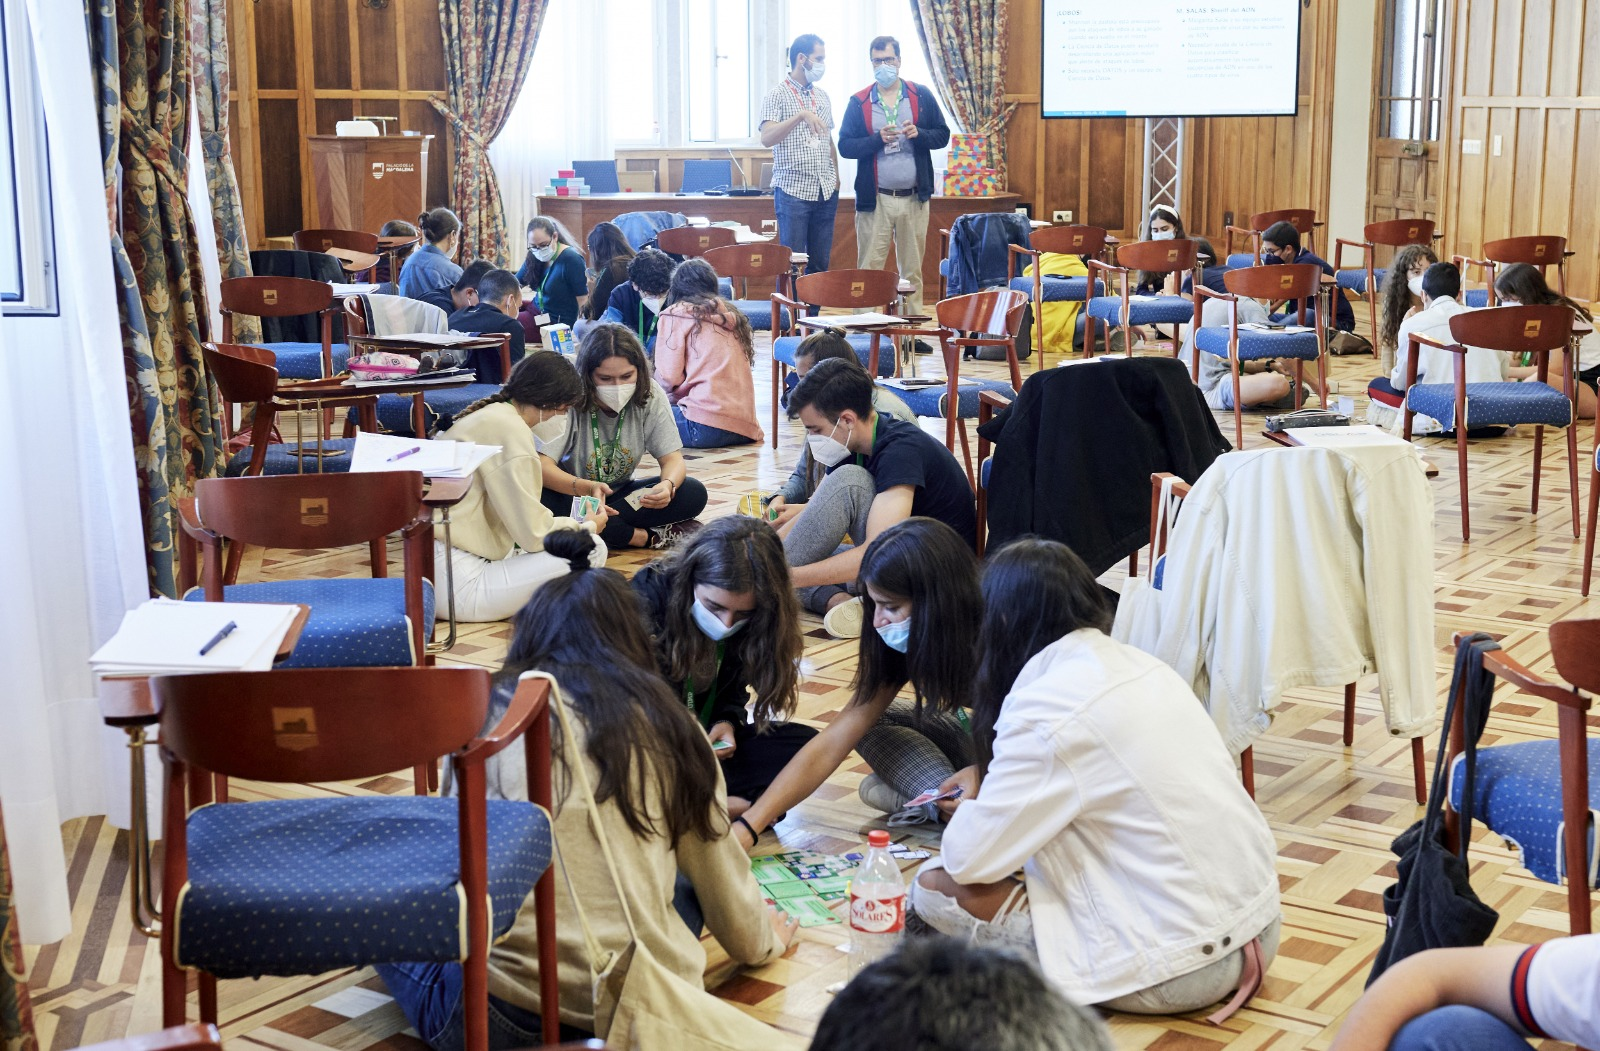
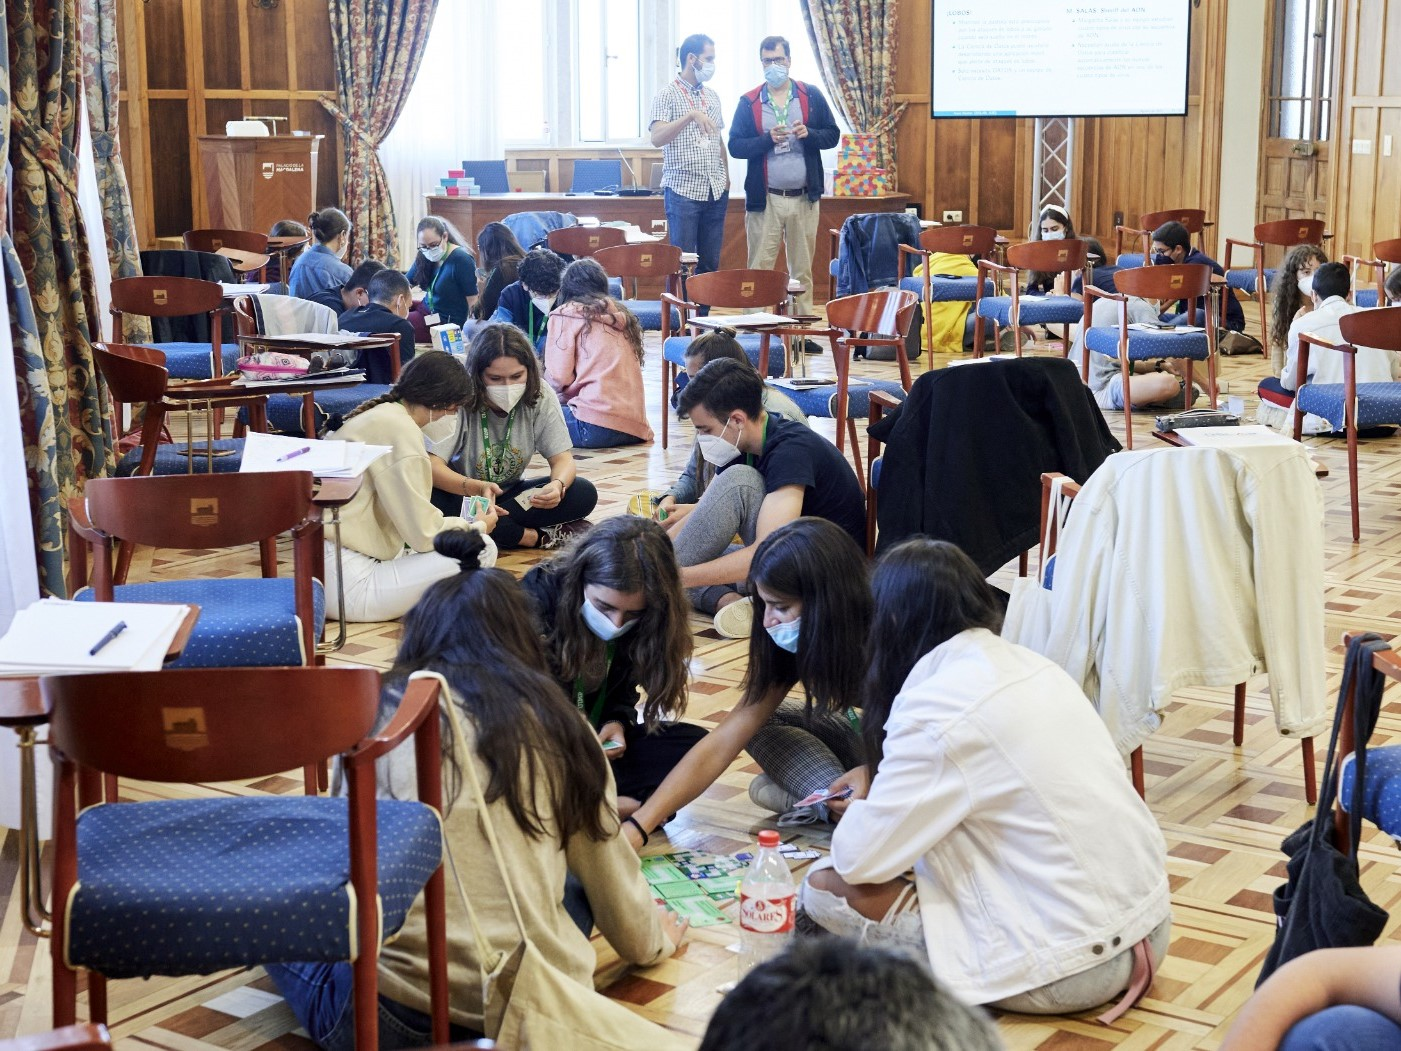
Upgrade blog images aspect ratio

diff --git a/blog/index.html b/blog/index.html
@@ -67,7 +67,9 @@ author: URJCDataScience
 						<article class="blogpost shadow light-gray-bg bordered" data-animation-effect="fadeInUpSmall"
 								 data-effect-delay="100">
 							<div class="overlay-container">
-								<img src="https://www.urjc.es/media/k2/items/cache/f98bc8146faf2cc2b5e9f4b3df223e2c_XL.jpg" alt="Participantes IV edición Ciencia eres tú">
+								<img src="https://www.urjc.es/media/k2/items/cache/f98bc8146faf2cc2b5e9f4b3df223e2c_XL.jpg"
+									 style="object-fit: cover; aspect-ratio: 850 / 390;"
+									 alt="Participantes IV edición Ciencia eres tú">
 							</div>
 							<header>
 								<h2>
@@ -120,7 +122,9 @@ author: URJCDataScience
 						<article class="blogpost shadow light-gray-bg bordered" data-animation-effect="fadeInUpSmall"
 								 data-effect-delay="100">
 							<div class="overlay-container">
-								<img src="https://secure.meetupstatic.com/photos/event/9/b/9/4/600_524259828.webp" alt="Cartel de la 92ª reunión">
+								<img src="https://secure.meetupstatic.com/photos/event/9/b/9/4/600_524259828.webp"
+									 class="w-100"
+									 alt="Cartel de la 92ª reunión">
 							</div>
 							<header>
 								<h2>Uso de R en el DSLAB</h2>
